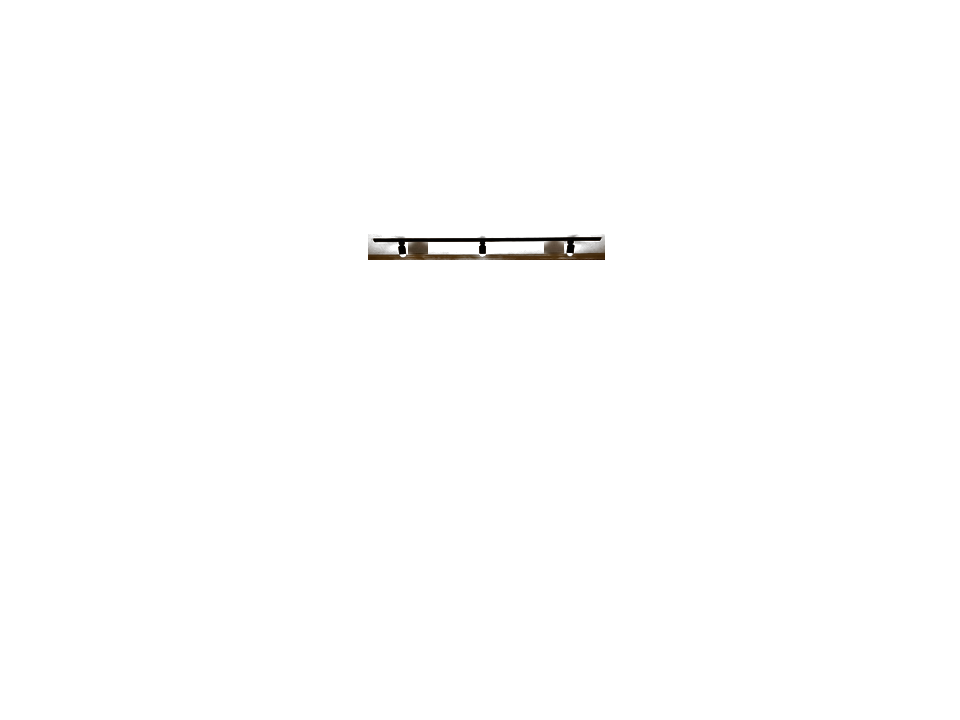
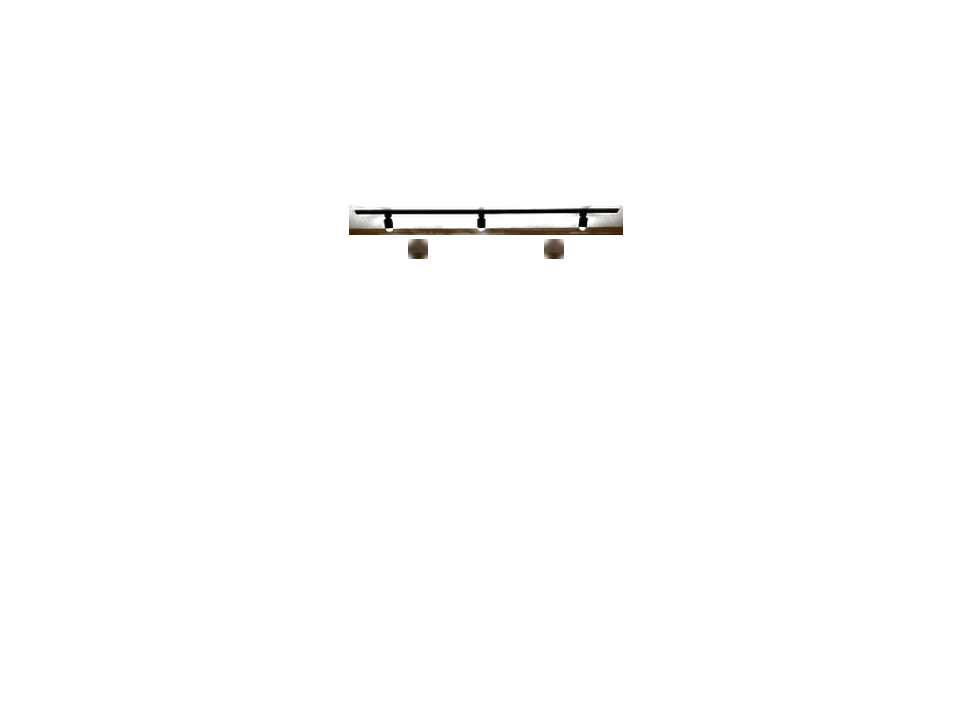
레일등 위치를 타공벽에서 중앙등 쪽으로 한 뼘 전진 및 원근 비율 확대

Changed region(s): [[0.3438, 0.275, 0.6562, 0.3667]]

diff --git a/configurator.html b/configurator.html
@@ -120,7 +120,7 @@
 
 <div class="toast" id="toast" role="status" aria-live="polite"></div>
 
-<script type="module" src="assets/configurator.js?v=20261122s"></script>
+<script type="module" src="assets/configurator.js?v=20261122t"></script>
 <noscript>
   <style>.panel-body{display:none}.panel-foot{display:none}</style>
   <p style="padding:20px">3D 견적 시뮬레이터는 자바스크립트가 필요합니다. 전화 상담 <a href="tel:01030015906">010-3001-5906</a> 으로 문의해 주세요.</p>

diff --git a/assets/configurator.js b/assets/configurator.js
@@ -2345,7 +2345,7 @@ function preloadPhotoWins(){
     '800x800': 'assets/win-800.png?v=3',
     '1200x800': 'assets/win-1200.png?v=3',
     'double1200': 'assets/win-double.png',
-    'rail_ceiling': 'assets/ceiling-rail.png?v=4',
+    'rail_ceiling': 'assets/ceiling-rail.png?v=5',
     'slat_nocob': 'assets/slat-nocob.png?v=4'
   };
   Object.keys(map).forEach(k => {
